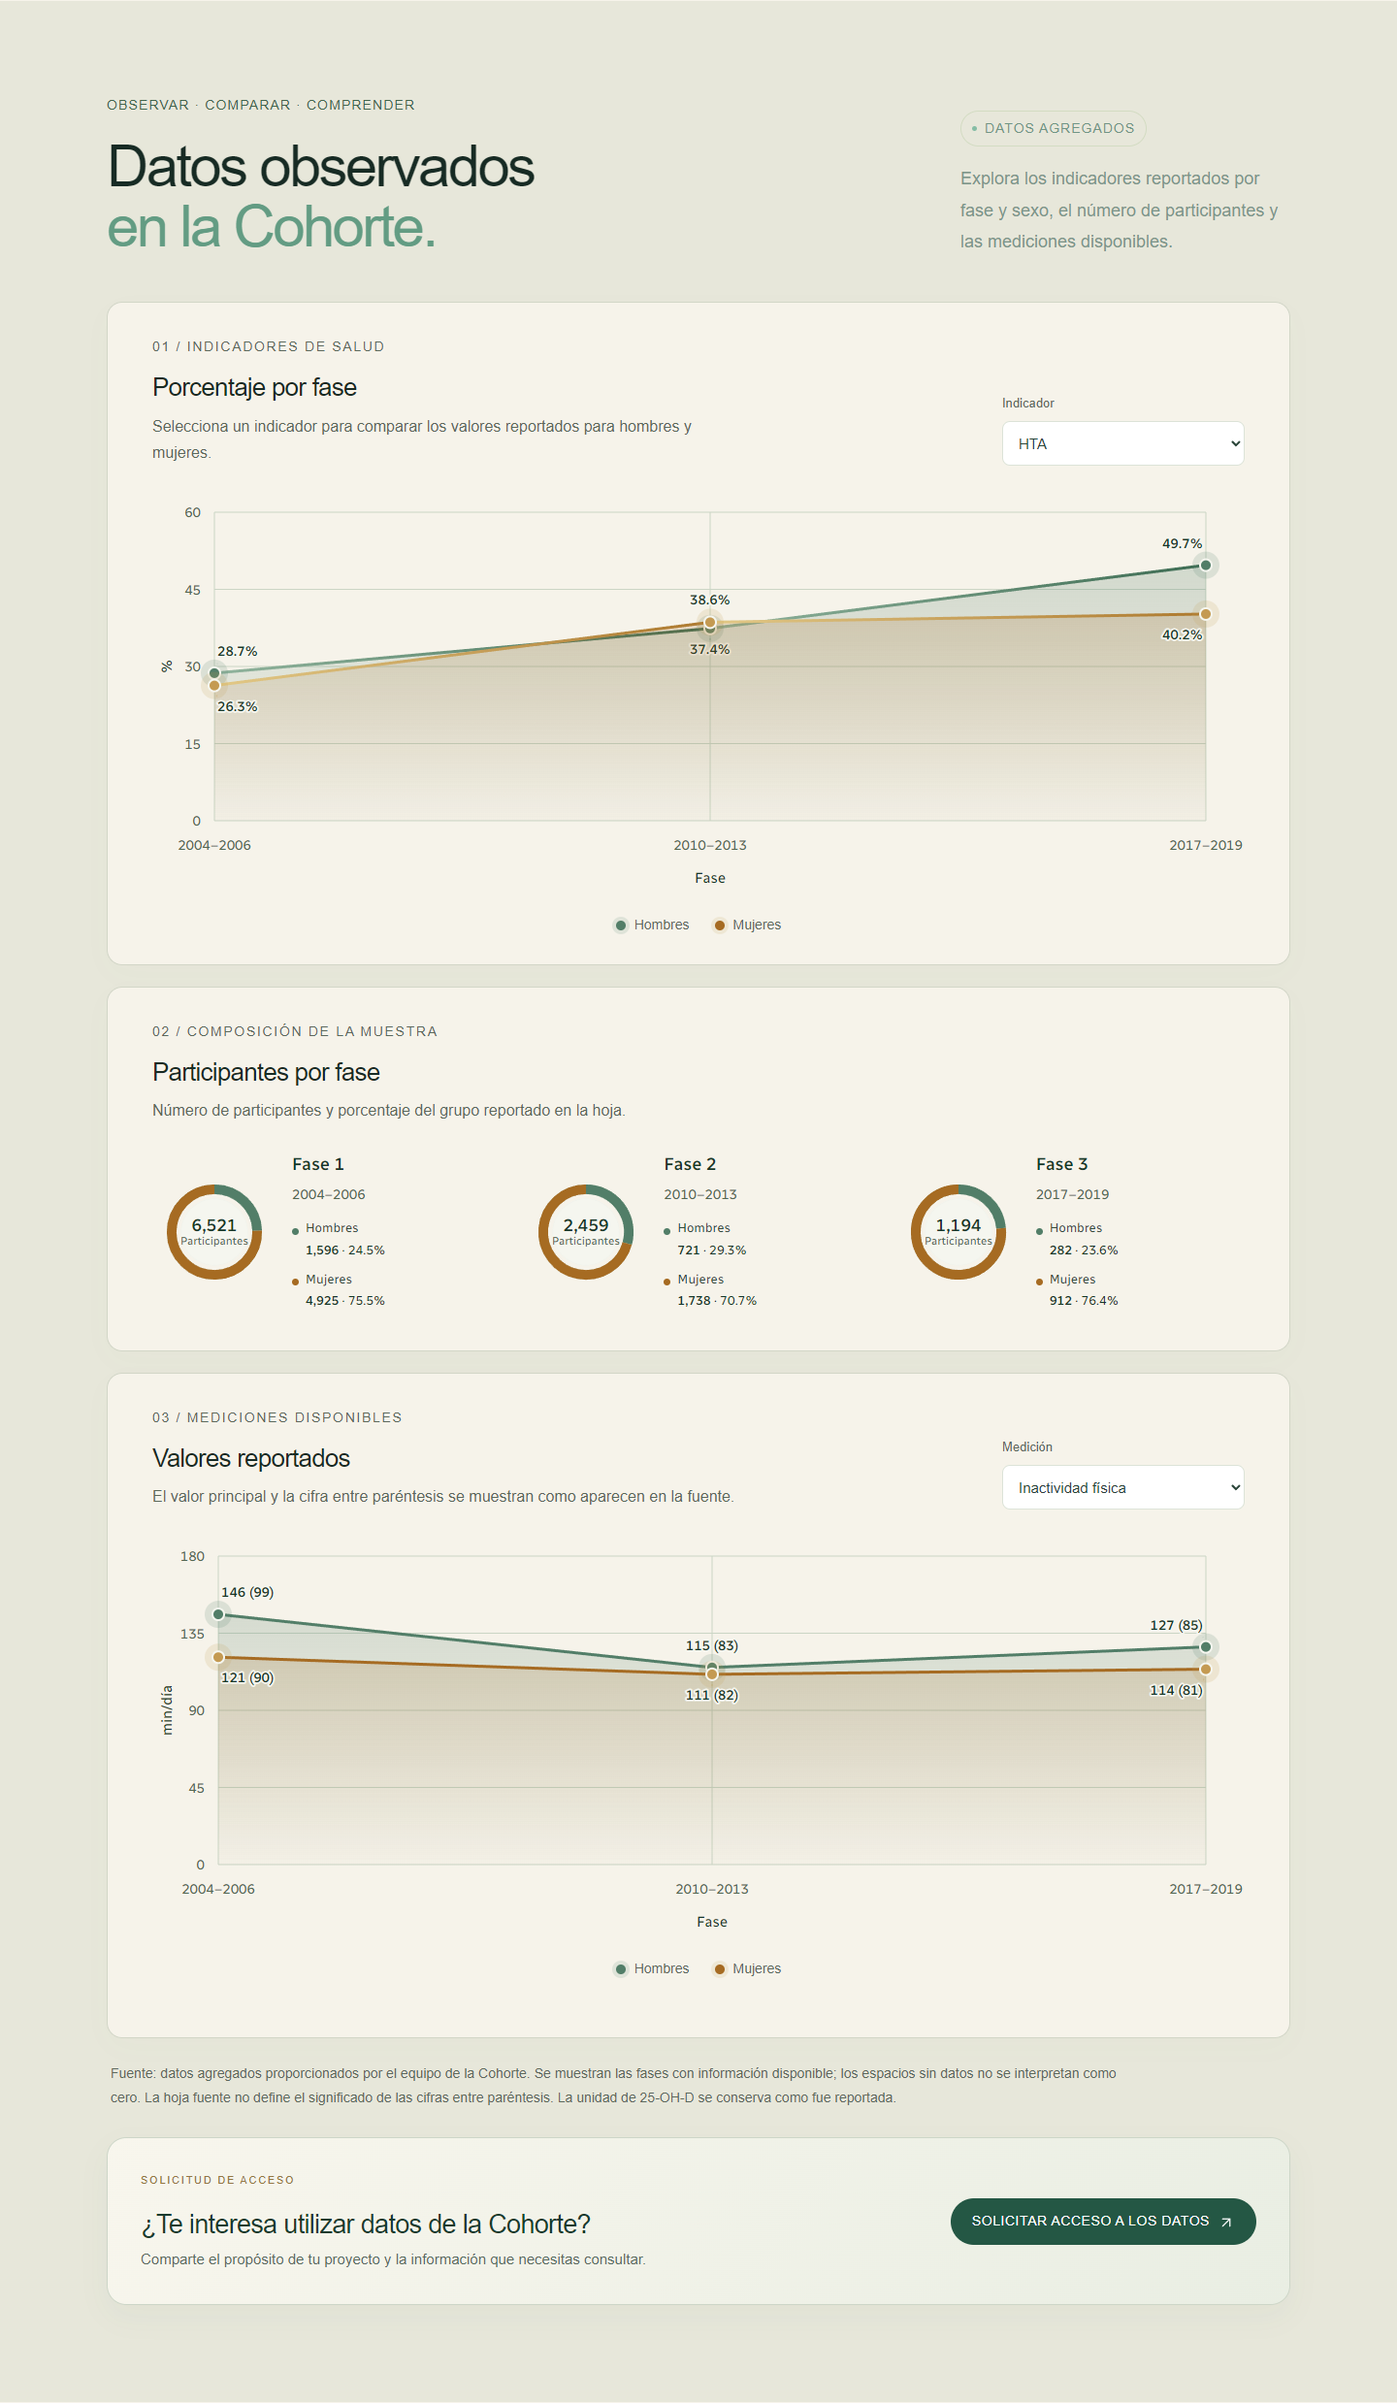
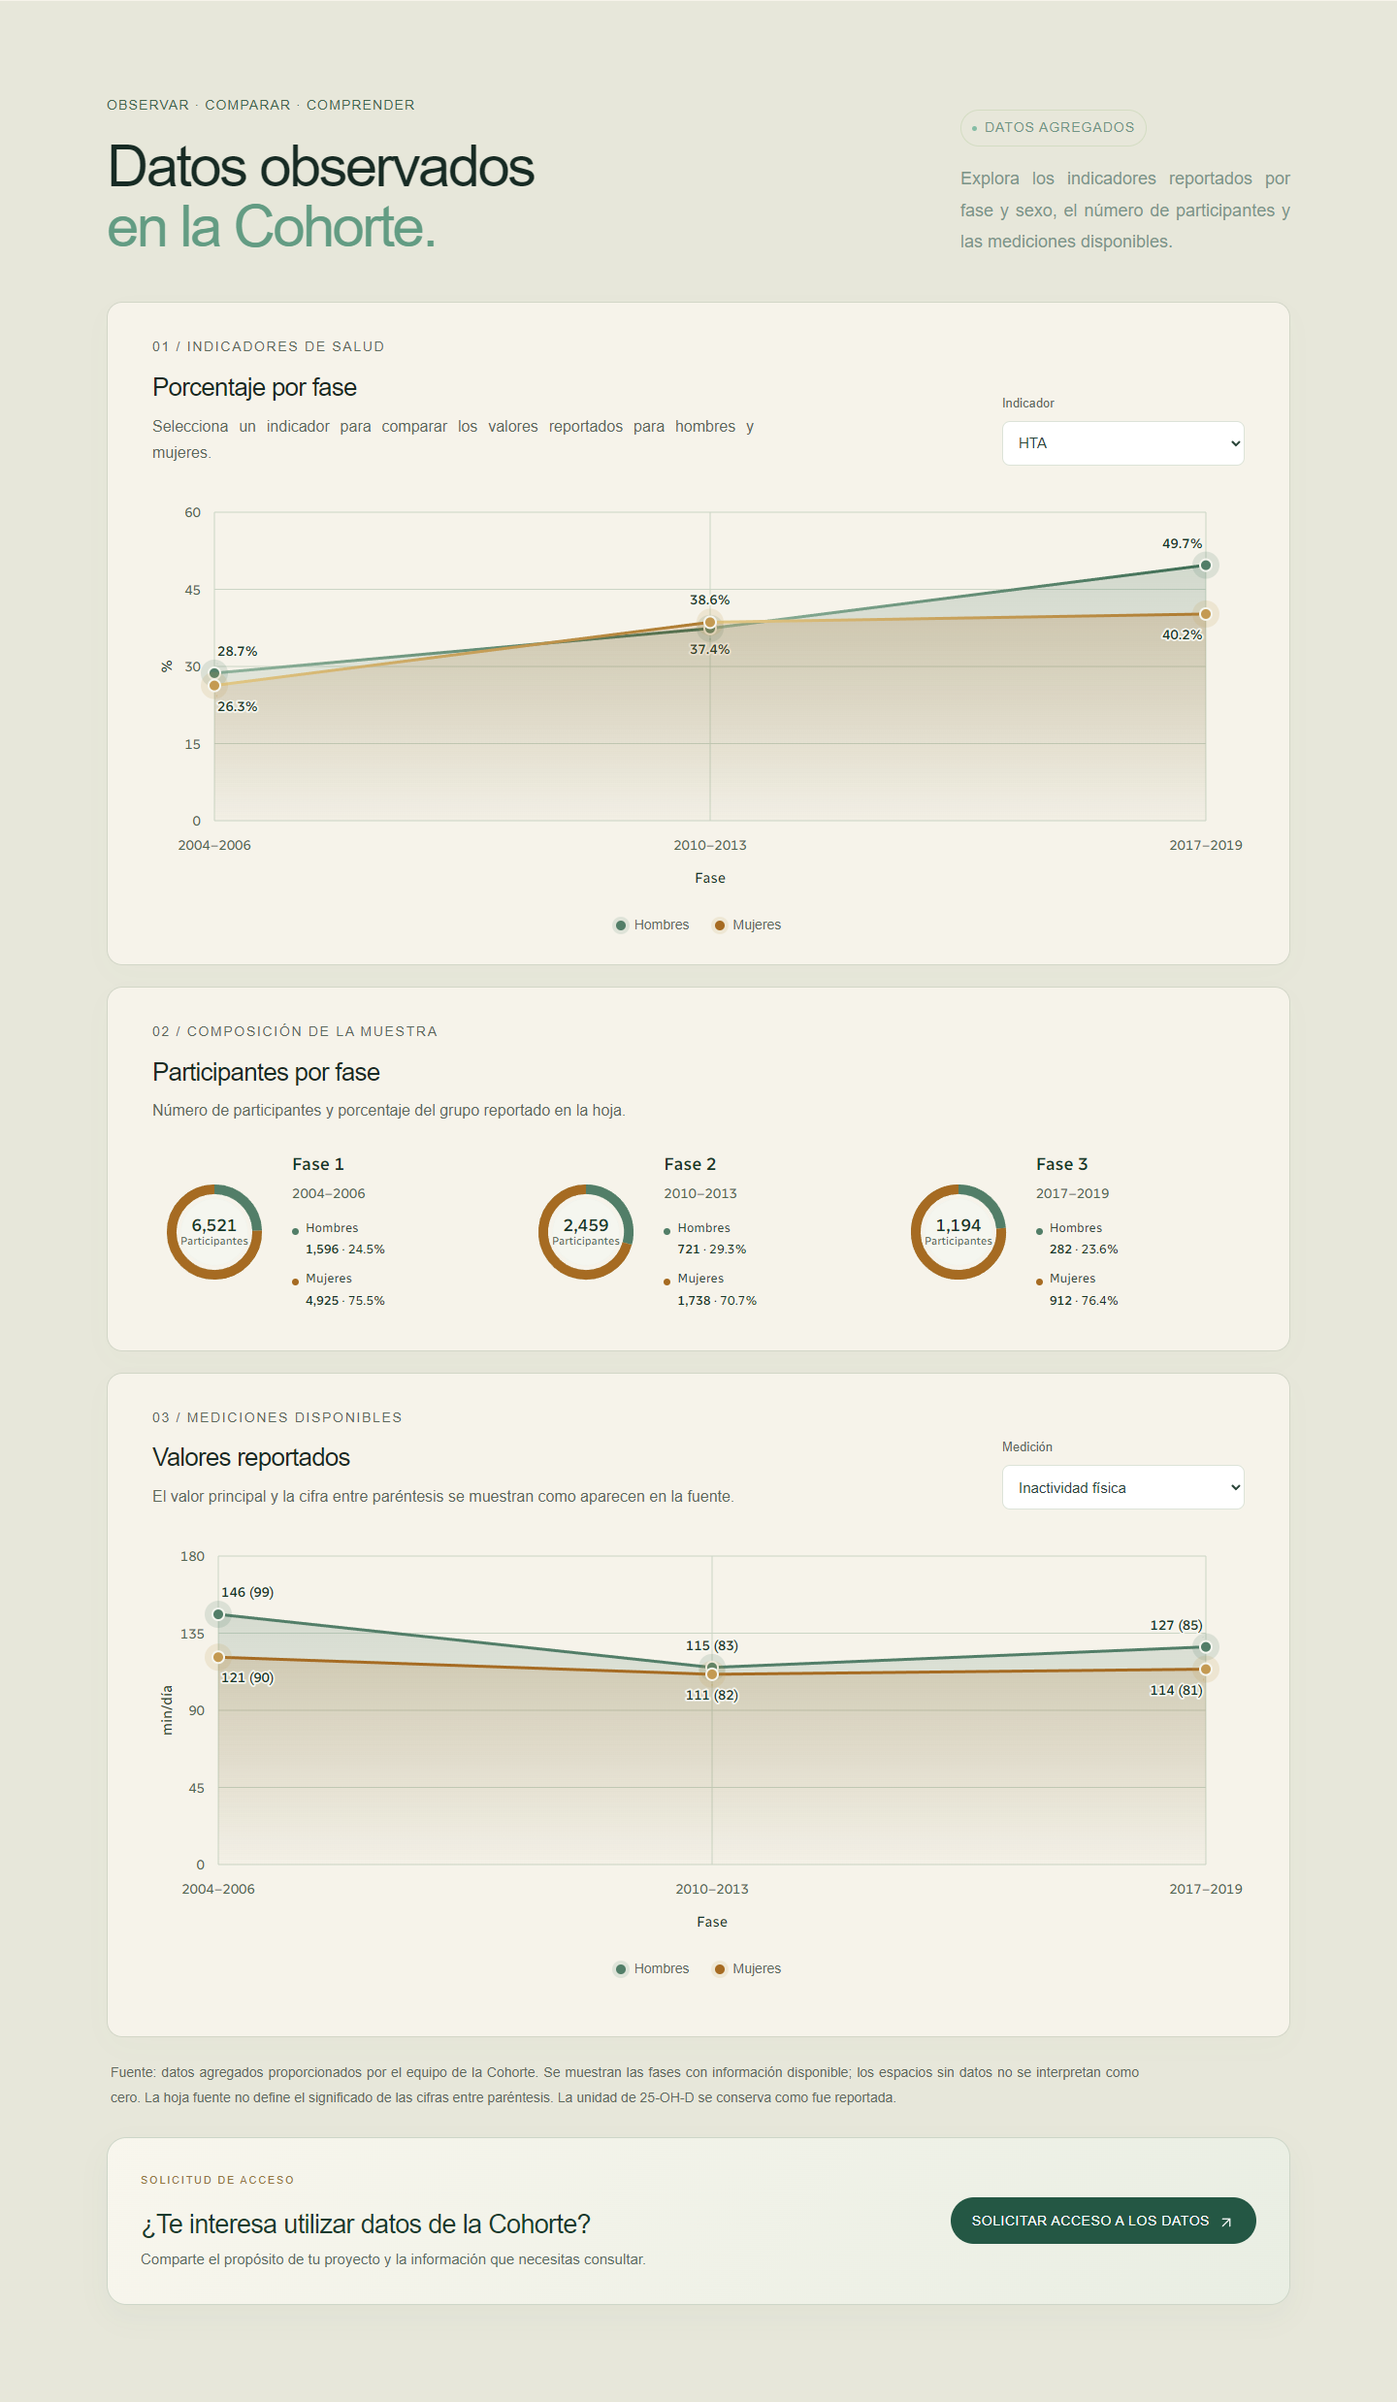
Refine landing alignment and restore chart animations

diff --git a/public/landing/_content.html b/public/landing/_content.html
@@ -1,6 +1,6 @@
 <!DOCTYPE html>
 
-<html lang="es"><head><meta charset="utf-8"/><meta content="width=device-width,initial-scale=1" name="viewport"/><title>Cohorte de Trabajadores de la Salud | Investigación longitudinal</title><meta content="Conoce el estudio, las evaluaciones y la investigación longitudinal de la Cohorte de Trabajadores de la Salud." name="description"/><link href="theme.css?v=67" rel="stylesheet"/><script src="motion-preferences.js?v=42"></script><script defer="" src="carousels.js?v=49"></script><script defer="True" src="evaluations.js?v=57"></script><script defer="True" src="motion.js?v=42"></script><link href="instituciones.css?v=43" rel="stylesheet"/><script defer="" src="analytics.js?v=68"></script><link href="retroalimentacion.css?v=49" rel="stylesheet"/><link rel="stylesheet" href="viewport.css?v=59"/><script defer src="i18n.js?v=68"></script><link rel="stylesheet" href="selected-design.css?v=1"/></head><body>
+<html lang="es"><head><meta charset="utf-8"/><meta content="width=device-width,initial-scale=1" name="viewport"/><title>Cohorte de Trabajadores de la Salud | Investigación longitudinal</title><meta content="Conoce el estudio, las evaluaciones y la investigación longitudinal de la Cohorte de Trabajadores de la Salud." name="description"/><link href="theme.css?v=67" rel="stylesheet"/><script src="motion-preferences.js?v=42"></script><script defer="" src="carousels.js?v=49"></script><script defer="True" src="evaluations.js?v=57"></script><script defer="True" src="motion.js?v=42"></script><link href="instituciones.css?v=43" rel="stylesheet"/><script defer="" src="analytics.js?v=68"></script><link href="retroalimentacion.css?v=49" rel="stylesheet"/><link rel="stylesheet" href="viewport.css?v=59"/><script defer src="i18n.js?v=68"></script><link rel="stylesheet" href="selected-design.css?v=2"/></head><body>
 <header class="floating-header"><a class="brand" href="#inicio"><img alt="Logo de la Cohorte" src="assets/0082ee1e712e9015.png"/><span>Cohorte de<br/>Trabajadores de la Salud</span></a><button aria-controls="main-menu" aria-expanded="false" aria-label="Abrir menú" class="menu-toggle" type="button"><svg aria-hidden="true" fill="none" stroke="currentColor" stroke-linecap="round" stroke-linejoin="round" stroke-width="1.7" viewbox="0 0 24 24"><path d="M4 6h16M4 12h16M4 18h16"></path></svg></button><nav aria-label="Navegación principal" id="main-menu"><a href="#proyecto">Proyecto</a><a href="#evolucion">Seguimiento</a><a href="#evaluaciones">Evaluaciones</a><a href="#equipo">Equipo</a><a class="login-link" href="login/"><svg aria-hidden="true" fill="none" stroke="currentColor" stroke-linecap="round" stroke-linejoin="round" stroke-width="1.7" viewbox="0 0 24 24"><path d="M14 4h6v16h-6M3 12h12m-4-4 4 4-4 4"></path></svg><span>Acceder</span></a></nav></header>
 <main><div class="first-screen"><section class="hero" id="inicio"><div class="hero-inner"><div class="hero-copy"><span class="eyebrow">Seguimiento · Evidencia · Salud</span><h1>Cohorte de<br/><span class="hero-highlight">Trabajadores</span><br/>de la Salud</h1><p class="hero-location">México</p><p>Una historia de salud que se construye a lo largo del tiempo. Investigación que reúne evaluaciones, muestras biológicas y estilos de vida para comprender cómo cambia la salud de sus participantes.</p><div class="hero-actions"><a class="button" href="#proyecto">Conoce el proyecto ↗</a><a class="button outline" href="#resultados">Conoce la investigación</a></div><span class="hero-tagline">Observar hoy. Comprender el mañana.</span></div><div aria-label="Salud, ciencia y seguimiento longitudinal" class="hero-visual"><div class="dna-scene"><div class="dna-orbit orbit-one"></div><div class="dna-orbit orbit-two"></div><img alt="Doble hélice de ADN con partículas verdes y doradas" class="dna-model" fetchpriority="high" height="1536" src="assets/adn-luminoso.png" width="1024"/><a class="dna-badge dna-datos" href="#resultados" aria-label="Datos y resultados"><div class="dna-symbol"><svg aria-hidden="true" fill="none" stroke="currentColor" stroke-linecap="round" stroke-linejoin="round" stroke-width="1.8" viewbox="0 0 34 34"><path d="M4 4v24h25"></path><rect height="8" rx="1" width="4" x="9" y="16"></rect><rect height="13" rx="1" width="4" x="17" y="11"></rect><rect height="19" rx="1" width="4" x="25" y="5"></rect></svg></div><div class="dna-label"><strong>Datos</strong><small>Evidencia</small></div></a><a class="dna-badge dna-salud" href="#evaluaciones" aria-label="Evaluaciones de salud"><div class="dna-symbol"><svg aria-hidden="true" fill="none" stroke="currentColor" stroke-linecap="round" stroke-linejoin="round" stroke-width="1.8" viewbox="0 0 34 34"><path d="M16 28 5 18C-3 10 7 1 16 9 25 1 35 10 27 18Z"></path><path d="M5 17h7l3-6 4 11 3-5h7"></path></svg></div><div class="dna-label"><strong>Salud</strong><small>Seguimiento</small></div></a><a class="dna-badge dna-personas" href="#proyecto" aria-label="El proyecto y sus participantes"><div class="dna-symbol"><svg aria-hidden="true" fill="none" stroke="currentColor" stroke-linecap="round" stroke-linejoin="round" stroke-width="1.8" viewbox="0 0 34 34"><circle cx="16" cy="9" r="4"></circle><path d="M8 28v-4a8 8 0 0 1 16 0v4M6 8a4 4 0 0 0 0 8M26 8a4 4 0 0 1 0 8M3 27v-4a6 6 0 0 1 3-5M29 27v-4a6 6 0 0 0-3-5"></path></svg></div><div class="dna-label"><strong>Personas</strong><small>Participantes</small></div></a><a class="dna-badge dna-mexico" href="#evolucion" aria-label="Origen y fases de la Cohorte en México"><div class="dna-symbol"><img alt="" aria-hidden="true" src="assets/mexico-gold.png"/></div><div class="dna-label"><strong>México</strong><small>Origen y fases</small></div></a><svg aria-hidden="true" class="dna-pulse" fill="none" viewbox="0 0 600 70"><path d="M0 35H160l9-7 8 14 10-34 12 52 12-25h30l8-10 8 18 10-8h333"></path></svg></div></div></div></section><section class="institutions" id="colaboracion"><div class="institution-title"><span></span><h2>Instituciones colaboradoras</h2><span></span></div><div aria-label="institution-logos" class="auto-carousel institution-logos" data-carousel="" data-speed="42" tabindex="0"><div class="moving-track"><div class="moving-set"><div class="cohorte-logo-set cohorte-carousel-set"><a aria-label="Ver equipo de Instituto Mexicano del Seguro Social (IMSS)" class="cohorte-logo-item" href="institucion-imss.html" rel="noopener noreferrer" title="Ver equipo de Instituto Mexicano del Seguro Social (IMSS)">
 <img alt="Instituto Mexicano del Seguro Social (IMSS)" decoding="async" height="1240" loading="eager" src="assets/instituciones/imss.png" width="1269"/>

diff --git a/public/landing/selected-design.css b/public/landing/selected-design.css
@@ -8,6 +8,14 @@
 @font-face { font-family: 'Radio Canada'; font-weight: 500; font-style: normal; font-display: swap; src: url('./assets/selected-design/fonts/radio-1.ttf') format('truetype'); }
 @font-face { font-family: 'Radio Canada Big'; font-weight: 700; font-style: normal; font-display: swap; src: url('./assets/selected-design/fonts/radio-2.ttf') format('truetype'); }
 
+main p, .site-footer p, .site-footer .footer-bottom p {
+  text-align: justify;
+  text-justify: inter-word;
+  text-align-last: auto;
+  hyphens: auto;
+  overflow-wrap: break-word;
+}
+
 #proyecto.selected-project {
   --ink: #193d30;
   --muted: #526a5b;
@@ -41,7 +49,7 @@
   display: grid;
   grid-template-columns: minmax(0, 1.35fr) minmax(0, 1fr);
   gap: 0 40px;
-  align-items: end;
+  align-items: center;
   max-width: none;
   margin: 0 0 48px;
   text-align: left;
@@ -78,7 +86,7 @@
 #equipo .institution-directory { display: grid; grid-template-columns: repeat(3, minmax(0, 1fr)); gap: 0 36px; }
 #equipo .institution-team-card {
   display: grid;
-  grid-template-columns: 65px minmax(0, 1fr);
+  grid-template-columns: 104px minmax(0, 1fr);
   gap: 0 20px;
   align-items: start;
   border: 0;
@@ -92,7 +100,7 @@
   transition: transform 180ms;
 }
 #equipo .institution-team-card:hover { transform: translateY(-3px); box-shadow: none; }
-#equipo .institution-team-card img { grid-column: 1; grid-row: 1/5; width: 65px; max-width: 65px; height: 78px; object-fit: contain; margin: 0; }
+#equipo .institution-team-card img { grid-column: 1; grid-row: 1/5; align-self: center; width: 104px; max-width: 104px; height: 120px; object-fit: contain; margin: 0; }
 #equipo .institution-team-card h3 { grid-column: 2; margin: 0; color: inherit; font: 700 24px/1.2 'Radio Canada Big', Arial, sans-serif; letter-spacing: -.035em; }
 #equipo .institution-team-card p { grid-column: 2; margin: 10px 0 0; color: #536852; font-size: 16px; }
 #equipo .institution-team-card > span { grid-column: 2; margin-top: 16px; font-size: 15px; font-weight: 400; text-decoration: underline; text-underline-offset: 5px; }
@@ -100,6 +108,20 @@
 #equipo .motion-reveal { opacity: 1; transform: none; filter: none; }
 
 /* Only the plots change here: retain the existing results heading and cards. */
+#resultados .science-chart-heading:has(.chart-select-label) {
+  display: grid;
+  grid-template-columns: minmax(0, 1fr) minmax(0, 250px);
+  gap: 24px;
+  align-items: end;
+}
+#resultados .science-chart-heading > div { min-width: 0; }
+#resultados .chart-select-label {
+  justify-self: end;
+  width: 250px;
+  min-width: 0;
+  max-width: 100%;
+  margin: 0 0 0 auto;
+}
 #resultados .data-plot {
   --color-series-men: #527e68;
   --color-series-women: #a66b22;
@@ -164,6 +186,44 @@
 #resultados .donut-stats small { font-size: inherit; font-weight: 400; color: inherit; }
 #resultados .donut-stat-dot { width: 7px; height: 7px; margin-top: 6px; border-radius: 50%; background: var(--dot-color); box-shadow: none; }
 
+/* Restore the original drawing sequence without hiding reduced-motion content. */
+@media(prefers-reduced-motion: no-preference) {
+  html:not([data-motion="reduced"]) #resultados .science-chart.motion-visible .chart-line {
+    stroke-dasharray: 1;
+    stroke-dashoffset: 1;
+    animation: chart-line-draw var(--segment-duration, 1s) ease-in-out var(--segment-delay, 0ms) both;
+  }
+  html:not([data-motion="reduced"]) #resultados .science-chart.motion-visible .chart-area {
+    opacity: 0;
+    animation: chart-area-reveal 350ms ease-in-out 2150ms both;
+  }
+  html:not([data-motion="reduced"]) #resultados .science-chart.motion-visible .marker-core {
+    transform-box: fill-box;
+    transform-origin: center;
+    animation: chart-point-pop 350ms ease-out var(--point-delay, 0ms) both;
+  }
+  html:not([data-motion="reduced"]) #resultados .science-chart.motion-visible .marker-halo {
+    opacity: 0;
+    transform-box: fill-box;
+    transform-origin: center;
+    animation: chart-halo-pop 420ms ease-out var(--point-delay, 0ms) both;
+  }
+  html:not([data-motion="reduced"]) #resultados .science-chart.motion-visible .chart-point-label,
+  html:not([data-motion="reduced"]) #resultados .science-chart.motion-visible .chart-label-leader {
+    opacity: 0;
+    animation: chart-label-fade 350ms ease-out var(--point-delay, 0ms) both;
+  }
+  html:not([data-motion="reduced"]) #resultados .science-chart.motion-visible .donut-segment {
+    stroke-dasharray: 1;
+    stroke-dashoffset: 1;
+    animation: donut-draw var(--donut-duration, 1s) ease-in-out var(--donut-delay, 0ms) both;
+  }
+  html:not([data-motion="reduced"]) #resultados .science-chart.motion-visible .donut-stat {
+    opacity: 0;
+    animation: donut-label-fade 300ms ease-out var(--donut-label-delay, 0ms) both;
+  }
+}
+
 @media(max-width: 1100px) {
   #equipo .institution-directory { grid-template-columns: repeat(2, minmax(0, 1fr)); }
 }
@@ -174,11 +234,17 @@
   #equipo .section-heading p { grid-column: 1; grid-row: 3; }
   #equipo .section-heading .eyebrow { margin: 0; }
 }
+@media(max-width: 680px) {
+  #resultados .science-chart-heading:has(.chart-select-label) { grid-template-columns: minmax(0, 1fr); gap: 16px; }
+  #resultados .science-chart-heading .chart-select-label { justify-self: end; width: min(100%, 250px); margin: 0 0 0 auto; }
+}
 @media(max-width: 560px) {
   #equipo { padding-block: 56px; }
   #equipo > .wrap { width: calc(100% - 40px); }
   #equipo .institution-directory { grid-template-columns: minmax(0, 1fr); }
-  #equipo .institution-team-card { grid-template-columns: 70px minmax(0, 1fr); padding-block: 24px; }
+  #equipo .institution-team-card { grid-template-columns: 96px minmax(0, 1fr); gap: 0 16px; padding-block: 24px; }
+  #equipo .institution-team-card img { width: 96px; max-width: 96px; height: 112px; }
+  #equipo .institution-team-card h3 { font-size: 22px; overflow-wrap: anywhere; }
   #resultados .phase-donut-card { grid-template-columns: minmax(0, 128px) minmax(0, 1fr); gap: 0 12px; }
 }
 @media(prefers-reduced-motion: reduce) {

diff --git a/src/features/landing/pages/LandingPage.tsx b/src/features/landing/pages/LandingPage.tsx
@@ -8,7 +8,7 @@ const CSS_FILES = [
   'instituciones.css',
   'retroalimentacion.css',
   'viewport.css',
-  'selected-design.css',
+  'selected-design.css?v=2',
 ]
 
 const SCRIPT_FILES = [

diff --git a/design-review/selected-integration/README.md b/design-review/selected-integration/README.md
@@ -27,3 +27,9 @@ Para iniciar este worktree: `npm run dev -- --host localhost --port 5175`.
 Las capturas `proyecto-*`, `dimensiones-*`, `instituciones-*` y `graficas-*` muestran las piezas integradas a 1440 y 390 px. La barra flotante se oculta solo al generar estas capturas de componentes para que no tape el contenido recortado; permanece en la landing.
 
 La integración queda en `develop` local. No se publicó el sitio ni se enviaron cambios al remoto.
+
+## Ajustes posteriores
+
+Los párrafos están justificados. En instituciones, el texto introductorio y los logos están centrados verticalmente; los logos miden 104 px en escritorio y 96 px en móvil. Los selectores de indicadores y mediciones se alinean a la derecha, pasando a una fila propia cuando falta espacio.
+
+Se recuperó la secuencia de trazado de líneas, puntos, etiquetas y donas al entrar en pantalla. Con movimiento reducido los datos aparecen completos sin animación. Pasaron 24 comprobaciones adicionales de estos ajustes a 320, 390, 768 y 1440 px, incluidas la ejecución y la finalización de las animaciones.
